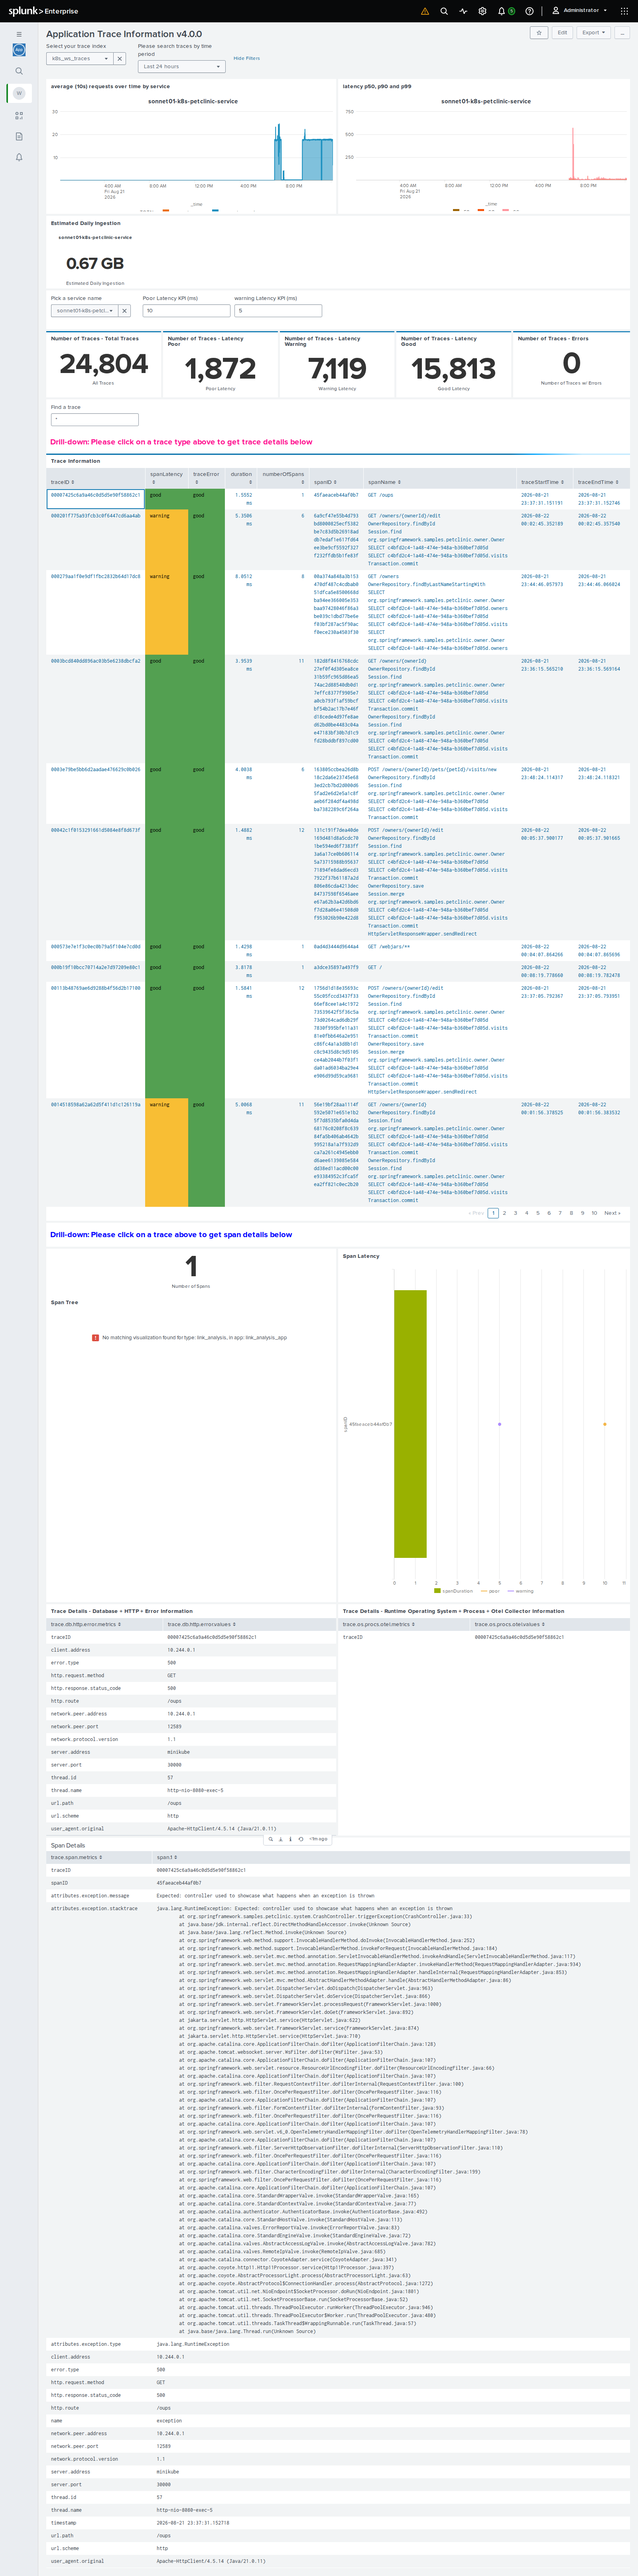
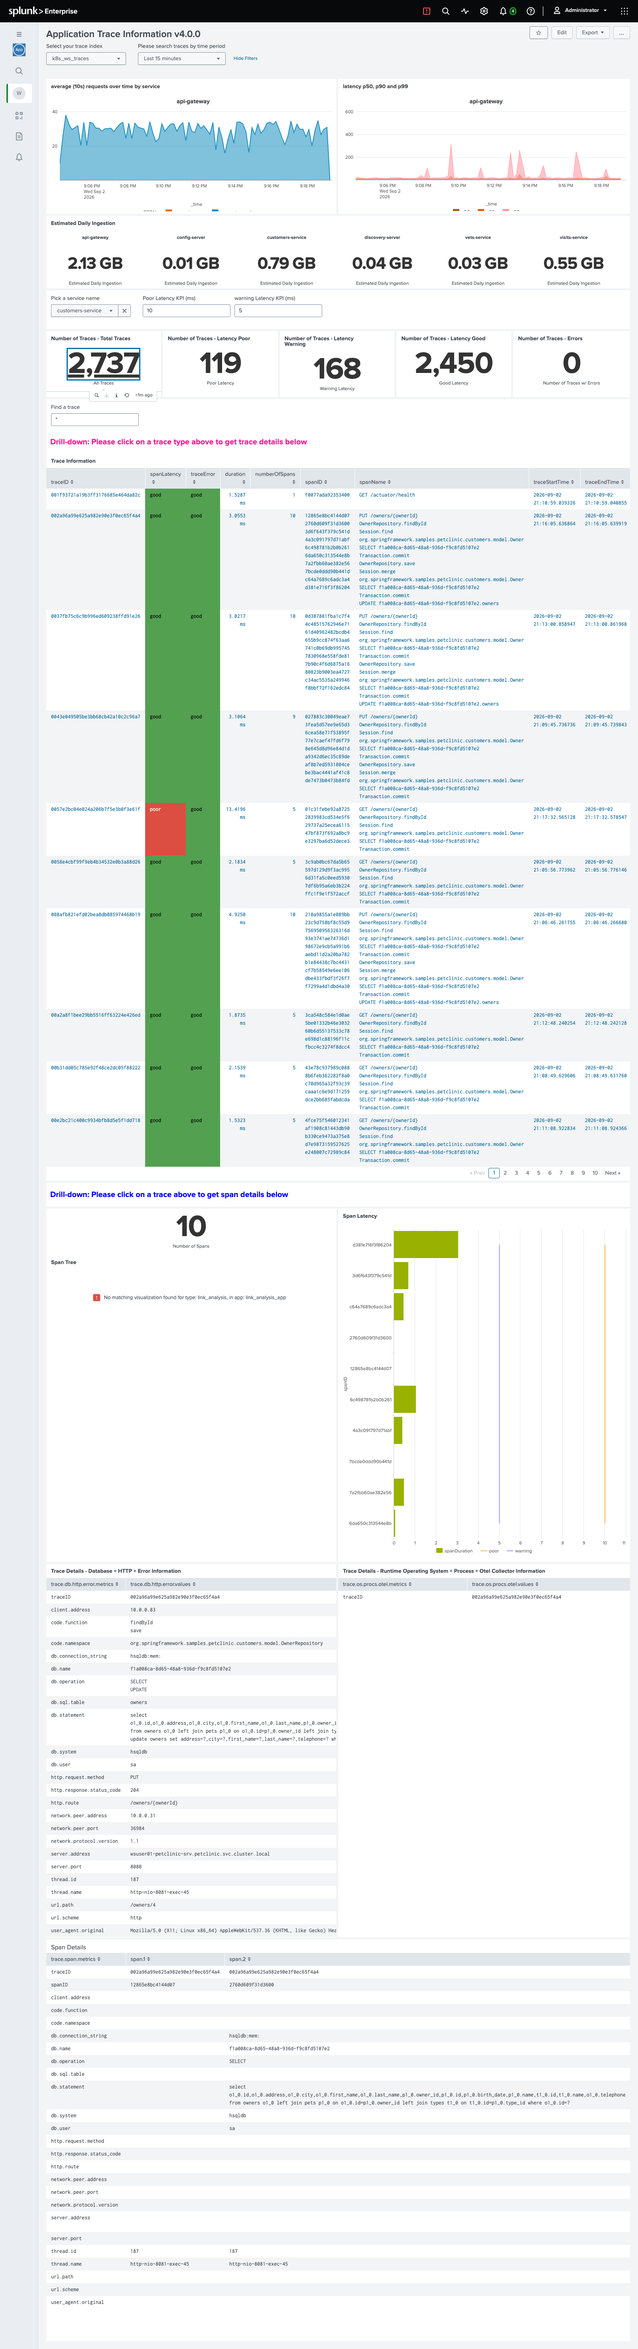
Capture real screenshots for all 5 stale/missing dashboard images
Replaced 3 stale screenshots (fw2-dashboard.png, aw1-dashboard.png,
apm-traces-dashboard.png) and 2 placeholder graphics (fw2-hubble-logs-
dashboard.png, aw1-cilium-metrics-dashboard.png) with real, full-page
1600px-wide captures via headless Playwright against the live Splunk instance
on 3.145.97.98 (through an SSH tunnel, no port 8000 exposure needed). All five
verified fully rendered (no loading/spinner states) before capture.

apm-traces-dashboard.png required interaction: selected customers-service in
the service picker, drilled into a real PUT /owners/4 trace (ten spans) via
Trace Information, then into its Hibernate SELECT span (joining owners/pets/
types). The old caption described a /oups RuntimeException trace that can't
exist in this topology anymore — rewritten to describe the actual captured
trace.

Doc-prose sweep for other now-inaccurate specific-content claims found two
real mismatches against the fresh screenshots, both fixed: FW2's Hubble
dashboard walkthrough claimed playwright-loadgen -> api-gateway leads the
Top Talkers table (external -> external actually leads, playwright-loadgen
close behind); AW1's Cilium Agent Health walkthrough claimed every BPF map
sits "well under 1%" (the two conntrack maps, ct_any4_global/ct4_global, sit
just over 1%).

That same sweep also surfaced a pre-existing, unrelated factual error the new
apm-traces caption exposed by contrast: the "Read the DB-time split carefully"
[…]

diff --git a/docs/03-advanced-1/index.md b/docs/03-advanced-1/index.md
@@ -1240,9 +1240,9 @@ Workshop** app.
 
     ```bash
     cd ~/k8s_workshop
-    curl -fsSLO https://raw.githubusercontent.com/gdcosta/k8s-otel-workshop-2026/main/labs/dashboards/dist/k8s-ws-dashboards-1.0.4.tgz
+    curl -fsSLO https://raw.githubusercontent.com/gdcosta/k8s-otel-workshop-2026/main/labs/dashboards/dist/k8s-ws-dashboards-1.0.5.tgz
     sudo -i -u splunk /opt/splunk/bin/splunk install app \
-      "$PWD/k8s-ws-dashboards-1.0.4.tgz" -auth admin:Workshop2026!
+      "$PWD/k8s-ws-dashboards-1.0.5.tgz" -auth admin:Workshop2026!
     ```
 
 ### Metrics & traces
@@ -1276,10 +1276,12 @@ the slowest INTERNAL methods, and show error rate by route.
 
 !!! tip "Read the DB-time split carefully"
     Database time comes out at only a few percent of request time here, which looks like it
-    contradicts the N+1 finding. It doesn't — PetClinic runs H2 **in memory**, so each
-    round-trip is almost free. Point the same application at a real network database and
-    those extra round-trips per page become extra network latencies per page. The count is
-    the finding; the timing is an artefact of the lab.
+    contradicts the N+1 finding. It doesn't — each of `customers-service`, `vets-service` and
+    `visits-service` runs its own **in-memory HSQLDB** instance (`db.system=hsqldb`,
+    confirmed on real spans — see the drilled-in trace below), so each round-trip is almost
+    free. Point the same application at a real network database and those extra round-trips
+    per page become extra network latencies per page. The count is the finding; the timing is
+    an artefact of the lab.
 
 !!! note "service.name turns out to be load-bearing, not decorative, in two places"
     Every trace-based table on this dashboard now carries a Service column, and for most of
@@ -1354,7 +1356,8 @@ Infrastructure dashboard's Collector pipeline section, one layer further down th
 
 **Cilium agent health** curates six panels out of the roughly 175 `cilium_*` series this
 cluster exposes, picking the categories an SRE actually checks rather than surveying all of
-them: BPF map pressure (every map on this lab cluster sits well under 1% full), endpoint
+them: BPF map pressure (mostly well under 1% full, with the two conntrack maps —
+`ct_any4_global`, `ct4_global` — the highest, just over 1%), endpoint
 state (all healthy endpoints land in `ready`), a controllers-failing gauge, the agent's own
 memory footprint, the number of security identities Cilium has allocated, K8s API client
 latency by endpoint, and — the panel directly tied to this workshop's own story — Cilium's
@@ -1399,8 +1402,10 @@ you chase one request.
 ![Application Trace Information v4.0.0](../assets/img/03-aw1/apm-traces-dashboard.png)
 
 Click a row in **Trace Information** to load that trace's spans underneath, then click a
-span for its detail. The screenshot above is drilled all the way in — the bottom pane is the
-PetClinic `/oups` `RuntimeException`, full stack trace, reached from a latency table.
+span for its detail. The screenshot above is drilled all the way in — a `customers-service`
+`PUT /owners/4` trace (ten spans), reached by clicking a row in Trace Information; the bottom
+pane is that trace's Hibernate `SELECT` span, joining `owners`, `pets`, and `types` for the
+owner being updated (`db.system=hsqldb`).
 
 !!! warning "One panel needs a Splunkbase app — the rest do not"
     The **Span Tree** panel renders with `link_analysis_app.link_analysis`, a custom

diff --git a/docs/02-foundational-2/index.md b/docs/02-foundational-2/index.md
@@ -1704,9 +1704,9 @@ already have.
 
 ```bash
 cd ~/k8s_workshop
-curl -fsSLO https://raw.githubusercontent.com/gdcosta/k8s-otel-workshop-2026/main/labs/dashboards/dist/k8s-ws-dashboards-1.0.4.tgz
+curl -fsSLO https://raw.githubusercontent.com/gdcosta/k8s-otel-workshop-2026/main/labs/dashboards/dist/k8s-ws-dashboards-1.0.5.tgz
 sudo -i -u splunk /opt/splunk/bin/splunk install app \
-  "$PWD/k8s-ws-dashboards-1.0.4.tgz" -auth admin:Workshop2026!
+  "$PWD/k8s-ws-dashboards-1.0.5.tgz" -auth admin:Workshop2026!
 ```
 
 !!! success "No restart needed"
@@ -1820,8 +1820,9 @@ that the other two render as thin lines pinned near the axis — that flatness *
 finding), a Traffic Direction trend, an L4 protocol mix table (TCP dominates; the UDP slice is
 DNS), and two service-topology tables — Top Destination Ports resolved to the PetClinic
 service that owns each one, and Top Service-to-Service Talkers read straight off the network,
-no application instrumentation involved. `playwright-loadgen → api-gateway` leads the talkers
-table, exactly as you'd expect from an always-on load generator hitting one entry point.
+no application instrumentation involved. `external → external` leads the talkers table, with
+`playwright-loadgen → api-gateway` close behind — exactly as you'd expect from an always-on
+load generator hitting one entry point.
 
 !!! abstract "Learning moment — the DROPPED panels are built to stay honest when they're empty"
     The doc's own checkpoint saw single-digit DROPPED counts per 10–30 minutes — real, but too
